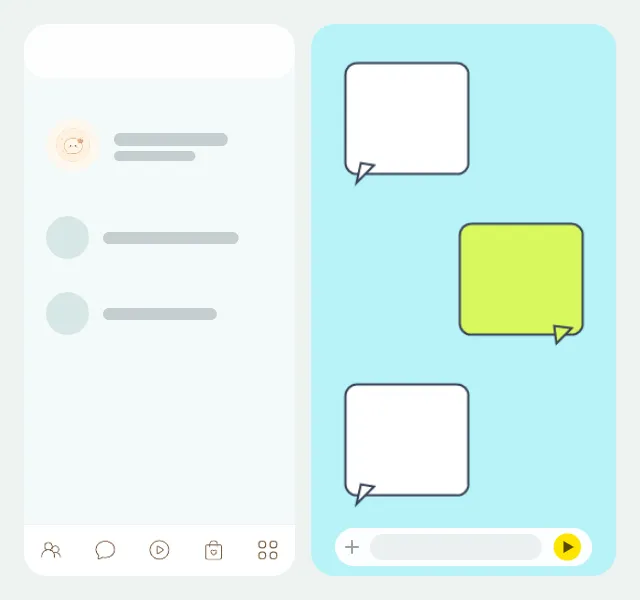
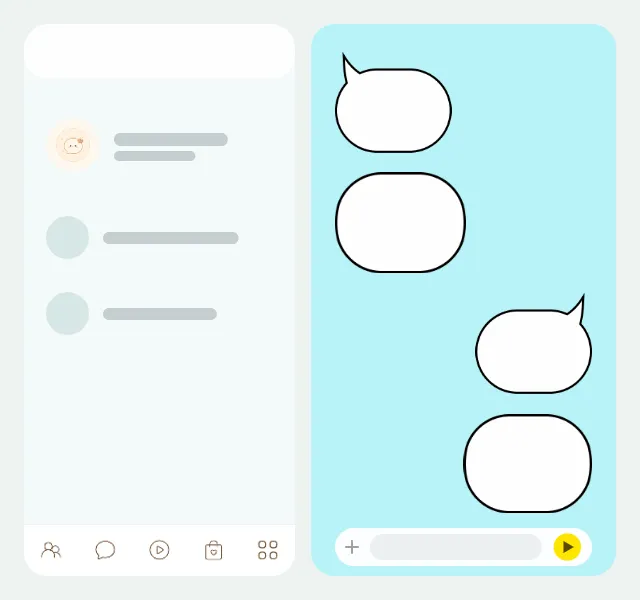
fix(systemTemplates): bust stale thumbnail cache, show all 4 bubbles
Card thumbnails weren't visibly updating after a second edit. save()
already re-baked the thumbnail on every save, but the public storage
path is fixed per variant and uploaded with cacheControl: 3600, so a
re-upload to the same URL kept serving the browser/CDN's cached first
version for up to an hour. Append the variant's updatedAt (bumped by
the DB's touch_updated_at trigger on every save) as a cache-busting
query param on the public thumbnail URL.

Also extend both bubble-facing previews from bubble_me_1/bubble_you_1
only to all four base bubble slots (bubble_me_1/2, bubble_you_1/2):

- Card thumbnail canvas (thumbnail.ts): draws four bubble rows instead
  of three, one per slot, as two consecutive-message pairs.
- Modal "dynamic" chatroom preview (TemplateGalleryClient.tsx): four
  messages using the _2 (consecutive) variant for the second message
  in each pair.

Plumbs the _2 fields through previewMetadata (types.ts,
buildPreviewMetadata) and TemplatePreviewVisual (preview.ts) to carry
them from storage to both renderers.

Verified with the /dev/bake-thumbnails canvas output and a real
published system template's preview modal.

Changed region(s): [[0.5, 0.09, 0.9375, 0.87]]

diff --git a/lib/theme/systemTemplates/thumbnail.ts b/lib/theme/systemTemplates/thumbnail.ts
@@ -66,10 +66,12 @@ export async function generateSystemTemplateThumbnail(
     const flipX = input.overrides.bubbleEdits.flipX?.[slot.id];
     return geometry || markers || insets || stretch || flipX ? { geometry, markers, insets, stretch, flipX } : undefined;
   };
-  const meEdit = bubbleEdit("bubble_me_1");
-  const youEdit = bubbleEdit("bubble_you_1");
+  const meEdit1 = bubbleEdit("bubble_me_1");
+  const meEdit2 = bubbleEdit("bubble_me_2");
+  const youEdit1 = bubbleEdit("bubble_you_1");
+  const youEdit2 = bubbleEdit("bubble_you_2");
   const imageRoles: ThemeResourceRole[] = ["main_background", "chat_background", "profile_image_1", ...thumbnailTabIconRoles];
-  const bubbleRoles: ThemeResourceRole[] = ["bubble_me_1", "bubble_you_1"];
+  const bubbleRoles: ThemeResourceRole[] = ["bubble_me_1", "bubble_me_2", "bubble_you_1", "bubble_you_2"];
   const images = new Map<ThemeResourceRole, HTMLImageElement>();
   const bubbleAssets = new Map<ThemeResourceRole, BubbleAsset>();
   const objectUrls: string[] = [];
@@ -97,7 +99,7 @@ export async function generateSystemTemplateThumbnail(
     ...bubbleRoles.map(async (role) => {
       const { source, selectedUploadName } = resolveSource(role);
       if (!source) return;
-      const bubbleSlot: BubbleSlot = role === "bubble_me_1" ? "me" : "you";
+      const bubbleSlot: BubbleSlot = role.startsWith("bubble_me_") ? "me" : "you";
       const fileName = selectedUploadName ?? source.split("?")[0].split("#")[0];
       try {
         bubbleAssets.set(role, await loadBubbleAsset(source, fileName, bubbleSlot));
@@ -129,10 +131,12 @@ export async function generateSystemTemplateThumbnail(
     drawPanel(context, rightX, contentTop, rightWidth, contentHeight, cornerRadius, color("chat_background_color", template.defaults.chatBackground), images.get("chat_background"));
     drawChatBubbles(context, rightX, contentTop, rightWidth, contentHeight, {
       platform: input.platform,
-      meAsset: bubbleAssets.get("bubble_me_1") ?? null,
-      youAsset: bubbleAssets.get("bubble_you_1") ?? null,
-      meEdit,
-      youEdit,
+      bubbles: [
+        { mine: false, asset: bubbleAssets.get("bubble_you_1") ?? null, edit: youEdit1 },
+        { mine: false, asset: bubbleAssets.get("bubble_you_2") ?? null, edit: youEdit2 },
+        { mine: true, asset: bubbleAssets.get("bubble_me_1") ?? null, edit: meEdit1 },
+        { mine: true, asset: bubbleAssets.get("bubble_me_2") ?? null, edit: meEdit2 },
+      ],
       myBubbleFill: themeColorToCss(template.defaults.myBubble),
       friendBubbleFill: themeColorToCss(template.defaults.friendBubble),
     });
@@ -202,7 +206,10 @@ function drawFriendsColumn(context: CanvasRenderingContext2D, x: number, y: numb
   context.restore();
 }
 
-// 우측 컬럼: 말풍선 3개(you/me/you) + 하단 입력창 캡슐. 글자 없이 이미지/단색 캡슐만.
+// 우측 컬럼: 말풍선 4개(you_1/you_2/me_1/me_2, 연속 메시지 묶음 두 쌍) + 하단 입력창 캡슐.
+// 글자 없이 이미지/단색 캡슐만.
+const chatBubbleWidthFactors = [0.74, 0.55, 0.7, 0.5];
+
 function drawChatBubbles(
   context: CanvasRenderingContext2D,
   x: number,
@@ -211,10 +218,7 @@ function drawChatBubbles(
   columnHeight: number,
   options: {
     platform: ThemePlatform;
-    meAsset: BubbleAsset | null;
-    youAsset: BubbleAsset | null;
-    meEdit?: BubbleEditState;
-    youEdit?: BubbleEditState;
+    bubbles: Array<{ mine: boolean; asset: BubbleAsset | null; edit?: BubbleEditState }>;
     myBubbleFill: string;
     friendBubbleFill: string;
   },
@@ -225,29 +229,25 @@ function drawChatBubbles(
   const areaWidth = columnWidth - padX * 2;
   const areaY = y + padTop;
   const areaHeight = columnHeight - padTop - inputBarHeight - 14;
-  const rows: Array<{ mine: boolean; widthFactor: number }> = [
-    { mine: false, widthFactor: 0.74 },
-    { mine: true, widthFactor: 0.7 },
-    { mine: false, widthFactor: 0.86 },
-  ];
-  const rowHeight = areaHeight / rows.length;
+  const rowHeight = areaHeight / options.bubbles.length;
 
-  rows.forEach((row, index) => {
+  options.bubbles.forEach((bubble, index) => {
     // 각 말풍선은 자기 고유 종횡비대로 행 박스 안에 배치된다(잘림 없이 contain).
-    const boxWidth = areaWidth * row.widthFactor;
+    const widthFactor = chatBubbleWidthFactors[index % chatBubbleWidthFactors.length];
+    const boxWidth = areaWidth * widthFactor;
     const boxHeight = rowHeight * 0.84;
-    const boxX = row.mine ? areaX + areaWidth - boxWidth : areaX;
+    const boxX = bubble.mine ? areaX + areaWidth - boxWidth : areaX;
     const boxY = areaY + index * rowHeight + (rowHeight - boxHeight) / 2;
     drawThumbnailBubble(context, {
-      asset: row.mine ? options.meAsset : options.youAsset,
-      edit: row.mine ? options.meEdit : options.youEdit,
+      asset: bubble.asset,
+      edit: bubble.edit,
       platform: options.platform,
-      mine: row.mine,
+      mine: bubble.mine,
       x: boxX,
       y: boxY,
       width: boxWidth,
       height: boxHeight,
-      fill: row.mine ? options.myBubbleFill : options.friendBubbleFill,
+      fill: bubble.mine ? options.myBubbleFill : options.friendBubbleFill,
     });
   });
 

diff --git a/lib/theme/systemTemplates/preview.ts b/lib/theme/systemTemplates/preview.ts
@@ -33,6 +33,20 @@ export type TemplatePreviewVisual = {
   friendBubbleInsets?: Insets;
   friendBubbleMarkers?: Markers;
   friendBubbleFlipX?: boolean;
+  // bubble_me_2/bubble_you_2(연속 메시지 변형). 텍스트색·채움색은 _1과 같은 role(chat_bubble_me/you_color,
+  // template.defaults.myBubble/friendBubble)을 그대로 쓰므로 별도 텍스트/채움색 필드는 없다.
+  myBubbleImage2?: string;
+  friendBubbleImage2?: string;
+  myBubbleGeometry2?: BubbleGeometry;
+  myBubbleStretch2?: StretchPoint;
+  myBubbleInsets2?: Insets;
+  myBubbleMarkers2?: Markers;
+  myBubbleFlipX2?: boolean;
+  friendBubbleGeometry2?: BubbleGeometry;
+  friendBubbleStretch2?: StretchPoint;
+  friendBubbleInsets2?: Insets;
+  friendBubbleMarkers2?: Markers;
+  friendBubbleFlipX2?: boolean;
   profileImage?: string;
   // 채팅목록탭 헤더/리스트 미리보기용
   mainHeaderColor: string;
@@ -147,7 +161,7 @@ export function createSystemTemplatePreviewVisual({
 
   return {
     platform,
-    cardPreviewImage: getPublicThemeAssetUrl(summary.previewMetadata.cardPreviewPath),
+    cardPreviewImage: getPublicThemeAssetUrl(summary.previewMetadata.cardPreviewPath, summary.updatedAt),
     chatBackgroundColor: resolveColor(slots, "chat_background_color", summary, templateId, template, template.defaults.chatBackground, summary.previewMetadata.colors?.chatBackground),
     mainBackgroundColor: resolveColor(slots, "main_background_color", summary, templateId, template, template.defaults.mainBackground, summary.previewMetadata.colors?.mainBackground),
     tabBackgroundColor: resolveColor(slots, "tab_background", summary, templateId, template, template.defaults.tabBackground, summary.previewMetadata.colors?.tabBackground),
@@ -170,6 +184,18 @@ export function createSystemTemplatePreviewVisual({
     friendBubbleInsets: summary.previewMetadata.bubbles?.friendBubble?.insets,
     friendBubbleMarkers: summary.previewMetadata.bubbles?.friendBubble?.markers,
     friendBubbleFlipX: summary.previewMetadata.bubbles?.friendBubble?.flipX,
+    myBubbleImage2: resolveImage(slots, "bubble_me_2", summary, templateId, template, signedUrls),
+    friendBubbleImage2: resolveImage(slots, "bubble_you_2", summary, templateId, template, signedUrls),
+    myBubbleGeometry2: summary.previewMetadata.bubbles?.myBubble2?.geometry,
+    myBubbleStretch2: summary.previewMetadata.bubbles?.myBubble2?.stretch,
+    myBubbleInsets2: summary.previewMetadata.bubbles?.myBubble2?.insets,
+    myBubbleMarkers2: summary.previewMetadata.bubbles?.myBubble2?.markers,
+    myBubbleFlipX2: summary.previewMetadata.bubbles?.myBubble2?.flipX,
+    friendBubbleGeometry2: summary.previewMetadata.bubbles?.friendBubble2?.geometry,
+    friendBubbleStretch2: summary.previewMetadata.bubbles?.friendBubble2?.stretch,
+    friendBubbleInsets2: summary.previewMetadata.bubbles?.friendBubble2?.insets,
+    friendBubbleMarkers2: summary.previewMetadata.bubbles?.friendBubble2?.markers,
+    friendBubbleFlipX2: summary.previewMetadata.bubbles?.friendBubble2?.flipX,
     profileImage: resolveImage(slots, "profile_image_1", summary, templateId, template, signedUrls),
     mainHeaderColor: resolveColor(slots, "main_header_color", summary, templateId, template, template.defaults.mainHeader),
     mainHeaderForegroundColor: resolveColor(slots, "main_header_foreground_color", summary, templateId, template, template.defaults.mainTitle),
@@ -222,7 +248,7 @@ function findSlotByRole(slots: ThemeAssetSlot[], role: ThemeResourceRole) {
   return slots.find((slot) => slot.role === role);
 }
 
-const previewRoles: ThemeResourceRole[] = ["chat_background", "main_background", "tab_background_image", "bubble_me_1", "bubble_you_1", "profile_image_1", "profile_image_2", "profile_image_3", "profile_image_full_1"];
+const previewRoles: ThemeResourceRole[] = ["chat_background", "main_background", "tab_background_image", "bubble_me_1", "bubble_you_1", "bubble_me_2", "bubble_you_2", "profile_image_1", "profile_image_2", "profile_image_3", "profile_image_full_1"];
 
 type PreviewRefKey = keyof NonNullable<SystemTemplateSummary["previewMetadata"]["refs"]>;
 
@@ -237,5 +263,7 @@ const previewRefKeyByRole: Partial<Record<ThemeResourceRole, PreviewRefKey>> = {
   tab_background_image: "tabBackground",
   bubble_me_1: "myBubble",
   bubble_you_1: "friendBubble",
+  bubble_me_2: "myBubble2",
+  bubble_you_2: "friendBubble2",
   profile_image_1: "profileImage",
 };

diff --git a/components/template/TemplateGalleryClient.tsx b/components/template/TemplateGalleryClient.tsx
@@ -1251,10 +1251,13 @@ function ChatsScreenPreview({ visual }: { visual: TemplatePreviewVisual }) {
   );
 }
 
-const chatroomPreviewMessages: Array<{ mine: boolean; text: string; time: string }> = [
-  { mine: false, text: "오늘 저녁 뭐 먹지 ㅋㅋ", time: "5:41" },
-  { mine: true, text: "떡볶이 어때 ㅎㅎ", time: "5:42" },
-  { mine: false, text: "콜! 이따 6시에 보자", time: "5:42" },
+// 연속 메시지 두 쌍(you_1→you_2, me_1→me_2)으로 구성해 bubble_me_1/2, bubble_you_1/2 네 슬롯이
+// 모두 보이게 한다. variant 2는 "_2"(연속 메시지 변형) 에셋을 쓴다.
+const chatroomPreviewMessages: Array<{ mine: boolean; variant: 1 | 2; text: string; time: string }> = [
+  { mine: false, variant: 1, text: "오늘 저녁 뭐 먹지 ㅋㅋ", time: "5:41" },
+  { mine: false, variant: 2, text: "떡볶이 어때?", time: "5:41" },
+  { mine: true, variant: 1, text: "콜 좋아 ㅎㅎ", time: "5:42" },
+  { mine: true, variant: 2, text: "6시에 보자!", time: "5:42" },
 ];
 
 // 채팅방
@@ -1273,7 +1276,7 @@ function ChatroomScreenPreview({ visual }: { visual: TemplatePreviewVisual }) {
 
       <div className="grid content-end gap-2 px-3 py-3 overflow-hidden">
         {chatroomPreviewMessages.map((message, index) => (
-          <ChatroomBubble key={index} visual={visual} mine={message.mine} text={message.text} time={message.time} />
+          <ChatroomBubble key={index} visual={visual} mine={message.mine} variant={message.variant} text={message.text} time={message.time} />
         ))}
       </div>
 
@@ -1289,12 +1292,12 @@ function ChatroomScreenPreview({ visual }: { visual: TemplatePreviewVisual }) {
   );
 }
 
-function ChatroomBubble({ visual, mine, text, time }: { visual: TemplatePreviewVisual; mine: boolean; text: string; time: string }) {
-  const image = mine ? visual.myBubbleImage : visual.friendBubbleImage;
-  const geometry = mine ? visual.myBubbleGeometry : visual.friendBubbleGeometry;
-  const stretch = mine ? visual.myBubbleStretch : visual.friendBubbleStretch;
-  const insets = mine ? visual.myBubbleInsets : visual.friendBubbleInsets;
-  const markers = mine ? visual.myBubbleMarkers : visual.friendBubbleMarkers;
+function ChatroomBubble({ visual, mine, variant, text, time }: { visual: TemplatePreviewVisual; mine: boolean; variant: 1 | 2; text: string; time: string }) {
+  const image = variant === 2 ? (mine ? visual.myBubbleImage2 : visual.friendBubbleImage2) : mine ? visual.myBubbleImage : visual.friendBubbleImage;
+  const geometry = variant === 2 ? (mine ? visual.myBubbleGeometry2 : visual.friendBubbleGeometry2) : mine ? visual.myBubbleGeometry : visual.friendBubbleGeometry;
+  const stretch = variant === 2 ? (mine ? visual.myBubbleStretch2 : visual.friendBubbleStretch2) : mine ? visual.myBubbleStretch : visual.friendBubbleStretch;
+  const insets = variant === 2 ? (mine ? visual.myBubbleInsets2 : visual.friendBubbleInsets2) : mine ? visual.myBubbleInsets : visual.friendBubbleInsets;
+  const markers = variant === 2 ? (mine ? visual.myBubbleMarkers2 : visual.friendBubbleMarkers2) : mine ? visual.myBubbleMarkers : visual.friendBubbleMarkers;
   const textColor = mine ? visual.myBubbleTextColor : visual.friendBubbleTextColor;
   const fillColor = mine ? visual.myBubbleFillColor : visual.friendBubbleFillColor;
   const edit = geometry || stretch || insets || markers ? { geometry, stretch, insets, markers } : undefined;

diff --git a/lib/theme/systemTemplates/supabaseRepository.ts b/lib/theme/systemTemplates/supabaseRepository.ts
@@ -232,7 +232,7 @@ export const systemTemplateRepository: SystemTemplateRepository = {
     let cardPreviewPath = row.preview_metadata?.cardPreviewPath;
     try {
       const slots = getThemeSlots(row.platform);
-      const thumbnailRoles: ThemeResourceRole[] = ["main_background", "chat_background", "bubble_me_1", "bubble_you_1", "profile_image_1", ...thumbnailTabIconRoles];
+      const thumbnailRoles: ThemeResourceRole[] = ["main_background", "chat_background", "bubble_me_1", "bubble_you_1", "bubble_me_2", "bubble_you_2", "profile_image_1", ...thumbnailTabIconRoles];
       const pathByRole = new Map<ThemeResourceRole, string>();
       for (const role of thumbnailRoles) {
         const storagePath = resolvePreviewStoragePath(slots, role, uploadRefs, candidateSelections);
@@ -542,11 +542,15 @@ function buildPreviewMetadata({
       tabBackground: resolvePreviewStoragePath(slots, "tab_background_image", uploadRefs, candidateSelections),
       myBubble: resolvePreviewStoragePath(slots, "bubble_me_1", uploadRefs, candidateSelections),
       friendBubble: resolvePreviewStoragePath(slots, "bubble_you_1", uploadRefs, candidateSelections),
+      myBubble2: resolvePreviewStoragePath(slots, "bubble_me_2", uploadRefs, candidateSelections),
+      friendBubble2: resolvePreviewStoragePath(slots, "bubble_you_2", uploadRefs, candidateSelections),
       profileImage: resolvePreviewStoragePath(slots, "profile_image_1", uploadRefs, candidateSelections),
     },
     bubbles: {
       myBubble: resolvePreviewBubbleShape(slots, "bubble_me_1", bubbleEdits),
       friendBubble: resolvePreviewBubbleShape(slots, "bubble_you_1", bubbleEdits),
+      myBubble2: resolvePreviewBubbleShape(slots, "bubble_me_2", bubbleEdits),
+      friendBubble2: resolvePreviewBubbleShape(slots, "bubble_you_2", bubbleEdits),
     },
   };
 }

diff --git a/lib/theme/remoteAssets.ts b/lib/theme/remoteAssets.ts
@@ -18,10 +18,16 @@ export const themePublicBucketName = "theme-public";
  * 서명하지 않으므로 만료가 없다. 갤러리가 URL을 오래 들고 있어도 깨지지 않는다.
  * Supabase URL이 없는 환경(e2e 빌드 등)에서는 `undefined`를 돌려주고, 호출부가 색상만으로
  * 카드를 그린다.
+ *
+ * `version`을 주면 `?v=`로 붙인다. 썸네일은 저장 경로가 `system-templates/<id>/preview/card.webp`로
+ * 고정돼 있고 업로드 시 `cacheControl: "3600"`을 설정하므로, 재굽기로 내용이 바뀌어도 URL이 그대로면
+ * 브라우저/CDN이 최대 1시간 동안 이전 이미지를 계속 돌려준다. 저장 시각(예: `updatedAt`)처럼 저장할
+ * 때마다 바뀌는 값을 넘기면 재굽기 직후에도 새 이미지를 받는다.
  */
-export function getPublicThemeAssetUrl(storagePath: string | undefined) {
+export function getPublicThemeAssetUrl(storagePath: string | undefined, version?: number | string) {
   if (!storagePath || !supabaseUrl) return undefined;
-  return `${supabaseUrl}/storage/v1/object/public/${themePublicBucketName}/${storagePath.split("/").map(encodeURIComponent).join("/")}`;
+  const url = `${supabaseUrl}/storage/v1/object/public/${themePublicBucketName}/${storagePath.split("/").map(encodeURIComponent).join("/")}`;
+  return version !== undefined ? `${url}?v=${encodeURIComponent(String(version))}` : url;
 }
 // 서버 라우트의 maxSignedUrlPaths(50)와 맞춘다.
 const signedUrlBatchSize = 50;

diff --git a/lib/theme/systemTemplates/preview.test.ts b/lib/theme/systemTemplates/preview.test.ts
@@ -127,4 +127,44 @@ describe("createSystemTemplatePreviewVisual", () => {
 
     expect(result.mainBackgroundColor).toBe("#112233");
   });
+
+  it("bubble_me_2/bubble_you_2(연속 메시지 변형)의 ref와 geometry도 함께 채운다", () => {
+    const template = getThemeTemplate("basic");
+    const summary: SystemTemplateSummary = {
+      id: "template-id",
+      title: "네 슬롯 말풍선",
+      baseTemplateId: "basic",
+      platform: "android",
+      status: "published",
+      visibility: "public",
+      pricingType: "free",
+      tags: [],
+      createdAt: 1,
+      updatedAt: 1,
+      uploadCount: 0,
+      colorCount: 0,
+      colors: {},
+      candidateSelections: {},
+      uploadRefs: {},
+      previewMetadata: {
+        refs: { myBubble2: "path/me2.png", friendBubble2: "path/you2.png" },
+        bubbles: {
+          myBubble2: { flipX: true },
+          friendBubble2: { flipX: false },
+        },
+      },
+    };
+
+    const result = createSystemTemplatePreviewVisual({
+      template,
+      platform: "android",
+      summary,
+      signedUrls: { "path/me2.png": "https://example.com/me2.png", "path/you2.png": "https://example.com/you2.png" },
+    });
+
+    expect(result.myBubbleImage2).toBe("https://example.com/me2.png");
+    expect(result.friendBubbleImage2).toBe("https://example.com/you2.png");
+    expect(result.myBubbleFlipX2).toBe(true);
+    expect(result.friendBubbleFlipX2).toBe(false);
+  });
 });

diff --git a/lib/theme/systemTemplates/types.ts b/lib/theme/systemTemplates/types.ts
@@ -90,8 +90,10 @@ export type SystemTemplatePreviewMetadata = {
   cardPreviewPath?: string;
   generatedAt?: string;
   colors?: Partial<Record<"chatBackground" | "mainBackground" | "tabBackground" | "myBubble" | "friendBubble", string>>;
-  refs?: Partial<Record<"chatBackground" | "mainBackground" | "tabBackground" | "myBubble" | "friendBubble" | "profileImage", string>>;
-  bubbles?: Partial<Record<"myBubble" | "friendBubble", BubblePreviewShape>>;
+  // myBubble2/friendBubble2는 bubble_me_2/bubble_you_2(연속 메시지 변형)다. myBubble/friendBubble(_1)과
+  // 같은 색상 role(chat_bubble_me/you_color)을 쓰므로 colors에는 _2 항목이 없다.
+  refs?: Partial<Record<"chatBackground" | "mainBackground" | "tabBackground" | "myBubble" | "friendBubble" | "myBubble2" | "friendBubble2" | "profileImage", string>>;
+  bubbles?: Partial<Record<"myBubble" | "friendBubble" | "myBubble2" | "friendBubble2", BubblePreviewShape>>;
 };
 
 export type SystemTemplateSummary = Pick<SystemTemplateRecord, "id" | "bundleId" | "title" | "description" | "baseTemplateId" | "platform" | "status" | "visibility" | "pricingType" | "priceAmount" | "creditCost" | "tags" | "createdAt" | "updatedAt"> & {

diff --git a/lib/theme/remoteAssets.test.ts b/lib/theme/remoteAssets.test.ts
@@ -44,4 +44,18 @@ describe("getPublicThemeAssetUrl", () => {
     const getPublicThemeAssetUrl = await load(undefined);
     expect(getPublicThemeAssetUrl("system-templates/abc/preview/card.webp")).toBeUndefined();
   });
+
+  // 저장 경로가 고정이라(`system-templates/<id>/preview/card.webp`) 재굽기 후에도 URL이 그대로면
+  // cacheControl(1시간) 때문에 브라우저가 이전 이미지를 계속 돌려준다. 버전을 쿼리로 붙여 무효화한다.
+  it("version을 주면 캐시 무효화용 쿼리를 붙인다", async () => {
+    const getPublicThemeAssetUrl = await load("https://example.supabase.co");
+    expect(getPublicThemeAssetUrl("system-templates/abc/preview/card.webp", 1700000000000)).toBe(
+      "https://example.supabase.co/storage/v1/object/public/theme-public/system-templates/abc/preview/card.webp?v=1700000000000",
+    );
+  });
+
+  it("version이 없으면 쿼리를 붙이지 않는다", async () => {
+    const getPublicThemeAssetUrl = await load("https://example.supabase.co");
+    expect(getPublicThemeAssetUrl("system-templates/abc/preview/card.webp")).not.toContain("?");
+  });
 });
